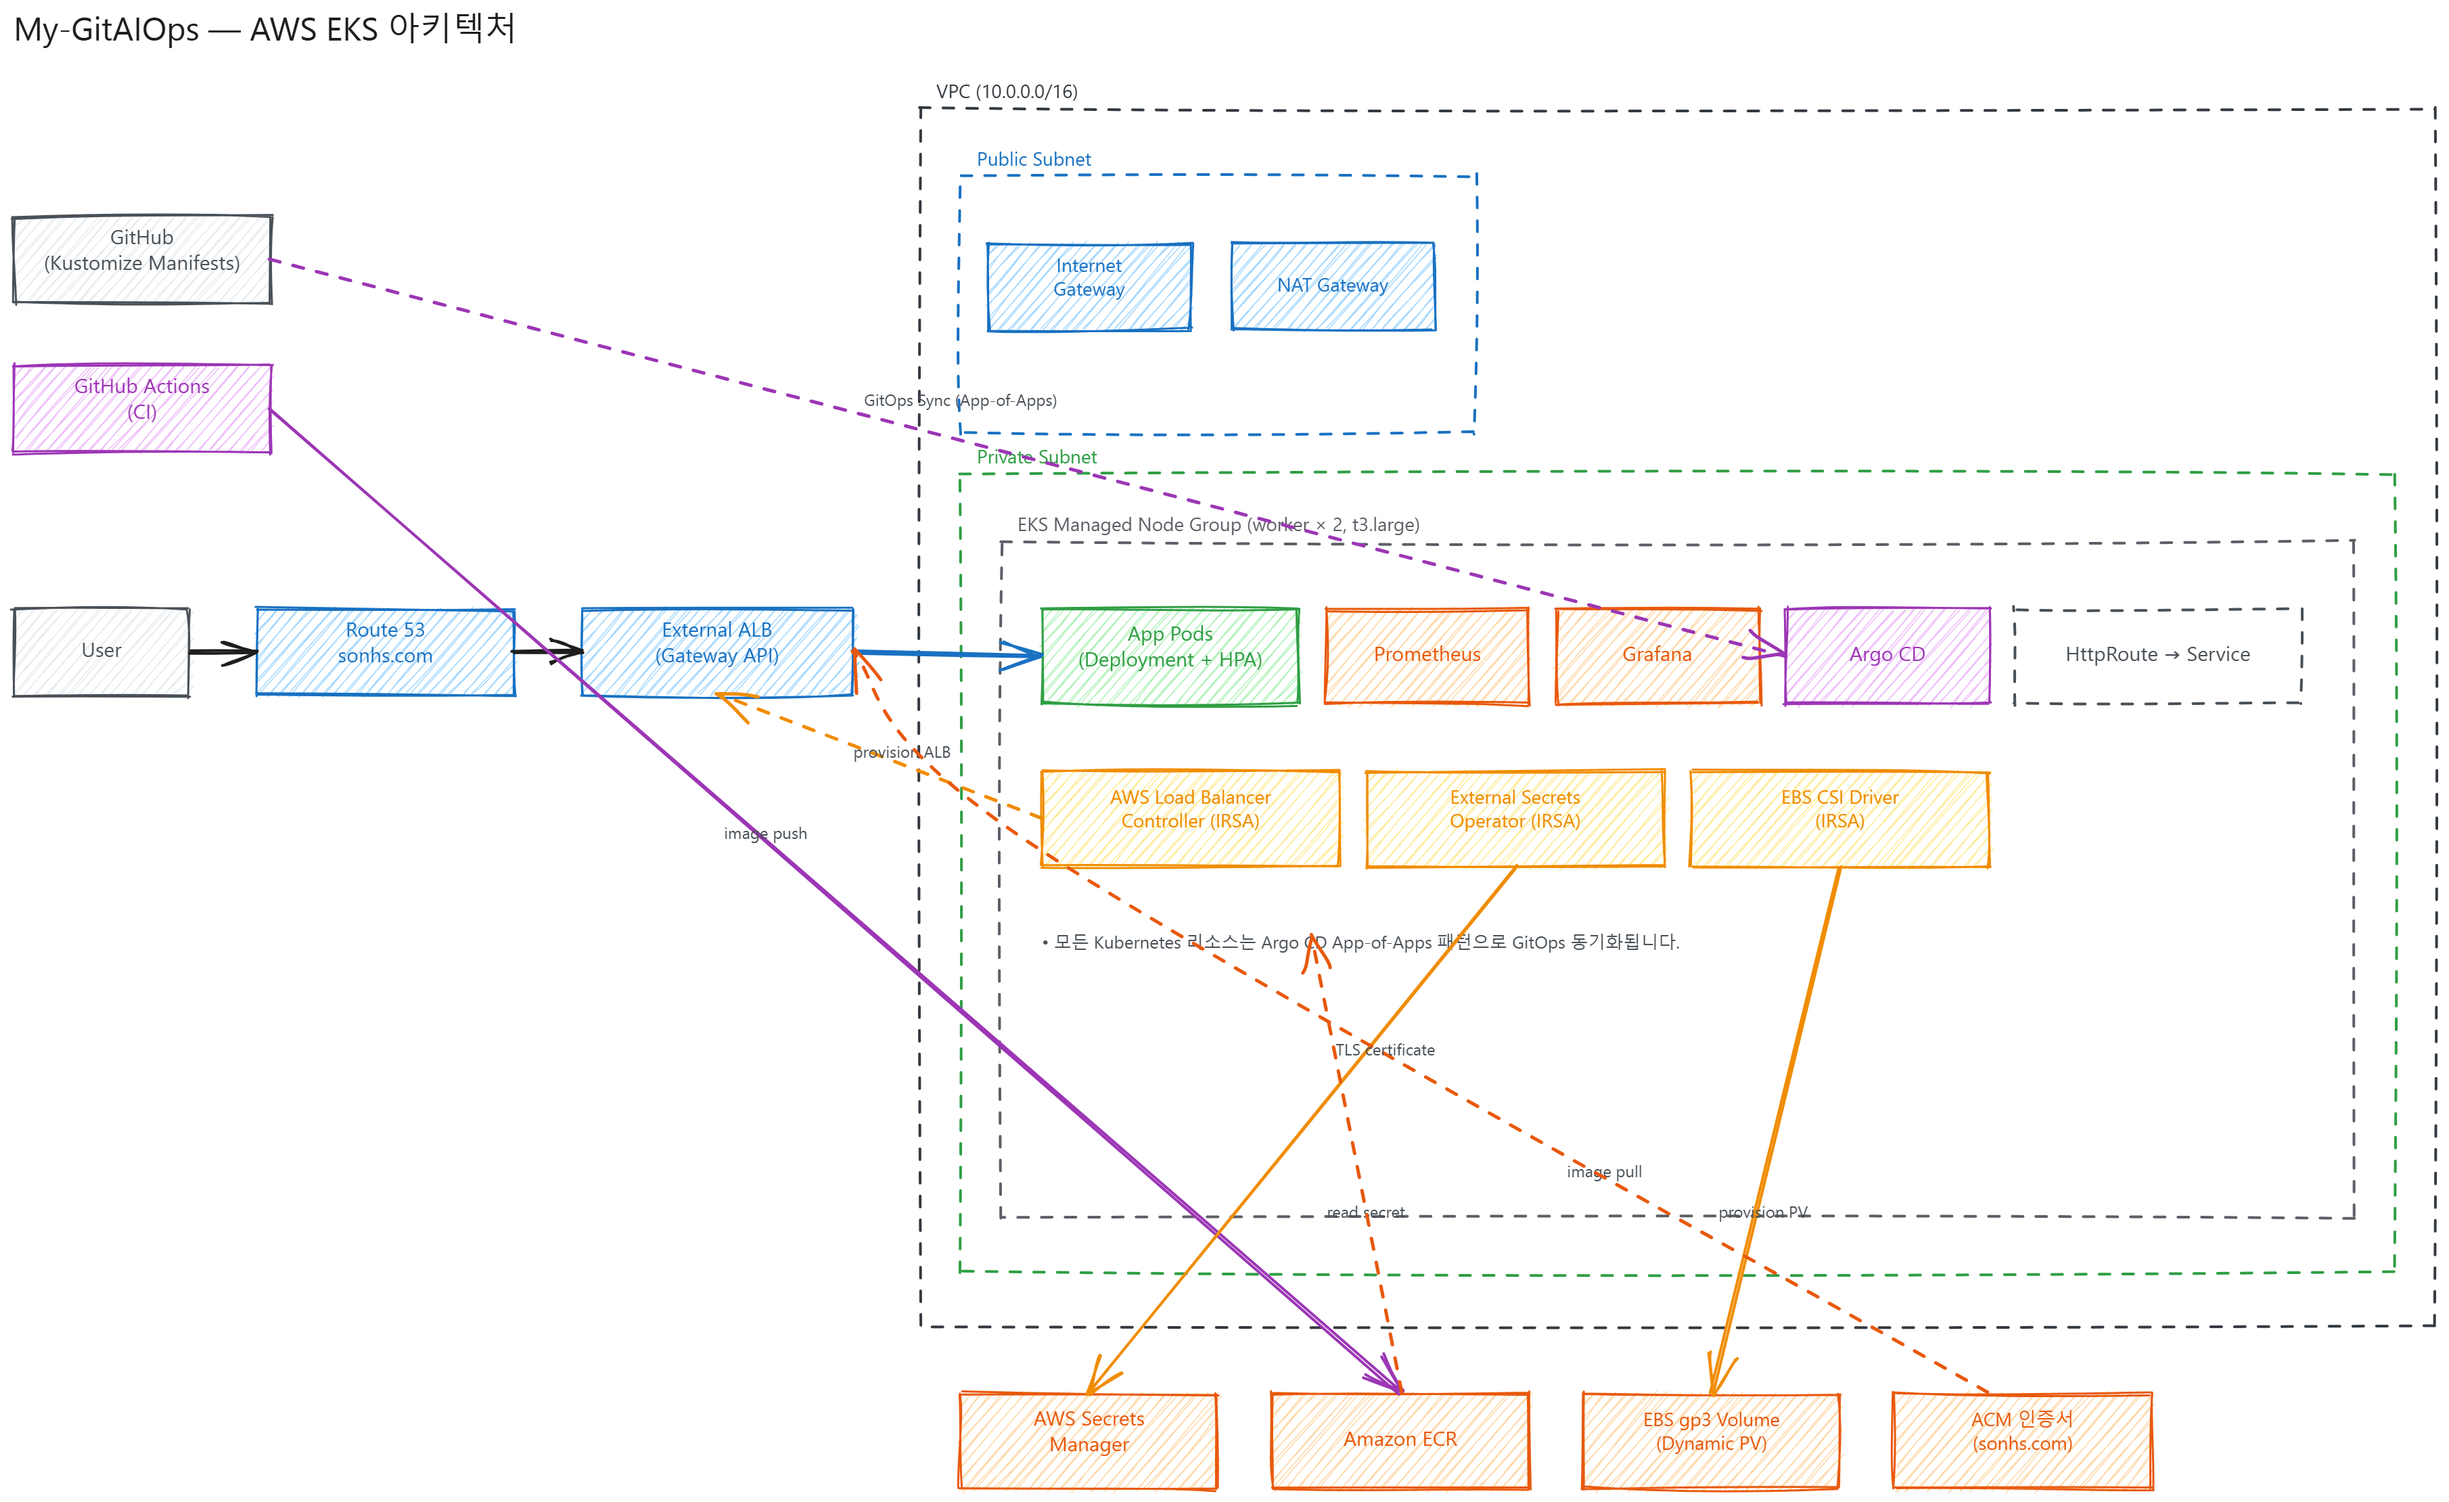
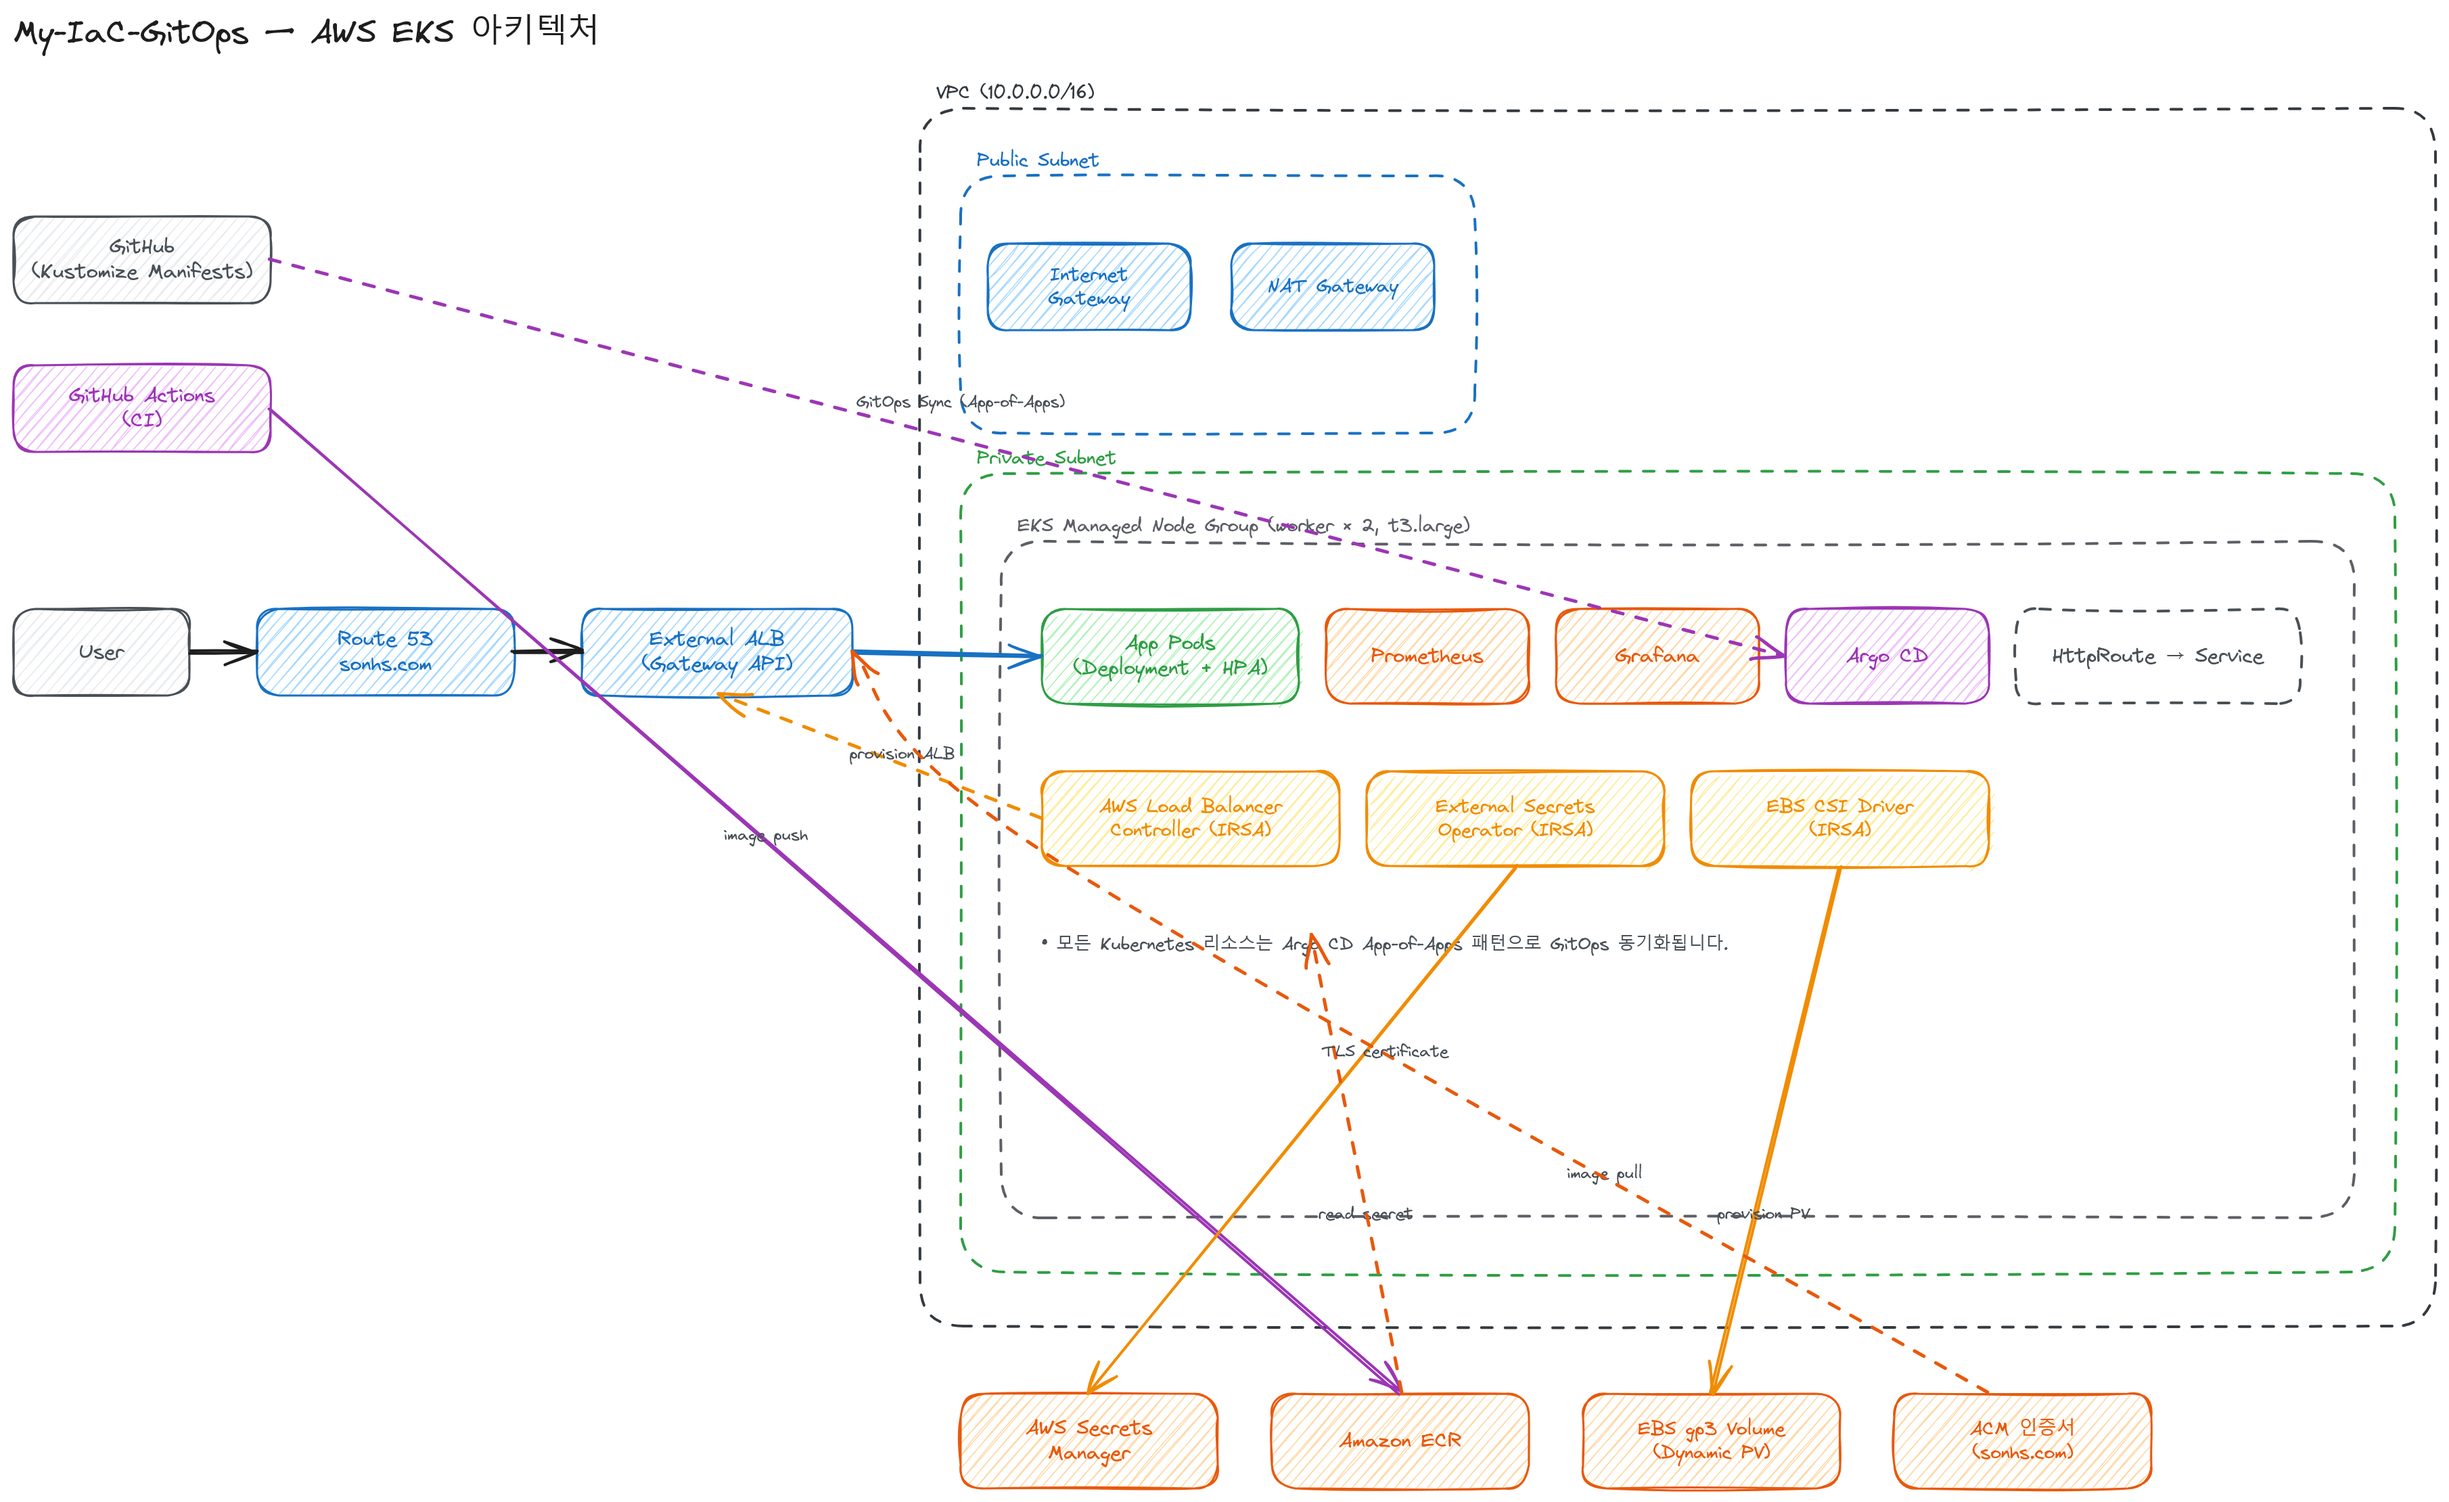
[fix] Git Remote 레포지토리 변경 -> 경로 참조하고 있는 파일들 수정

diff --git a/03-k8s-clusters/onprem/README.md b/03-k8s-clusters/onprem/README.md
@@ -153,12 +153,12 @@ runnerAuth:
 runnerScaleSets:
   - name: my-runner1
     runnerScaleSetName: my-project1-runner
-    githubConfigUrl: https://github.com/Son-Hunseo/my-gitaiops
+    githubConfigUrl: https://github.com/Son-Hunseo/my-iac-gitops
     minRunners: 0
     maxRunners: 3
   - name: my-runner2
     runnerScaleSetName: my-project2-runner
-    githubConfigUrl: https://github.com/Son-Hunseo/my-gitaiops2
+    githubConfigUrl: https://github.com/Son-Hunseo/my-iac-gitops2
     minRunners: 0
     maxRunners: 3
 ```

diff --git a/04-apps/aws/README.md b/04-apps/aws/README.md
@@ -81,7 +81,7 @@ aws_region = "ap-northeast-2"
 
 ```hcl
 default_tags = {
-  Project     = "My-GitAIOps"
+  Project     = "My-IaC-GitOps"
   Layer       = "apps"
 }
 ```
